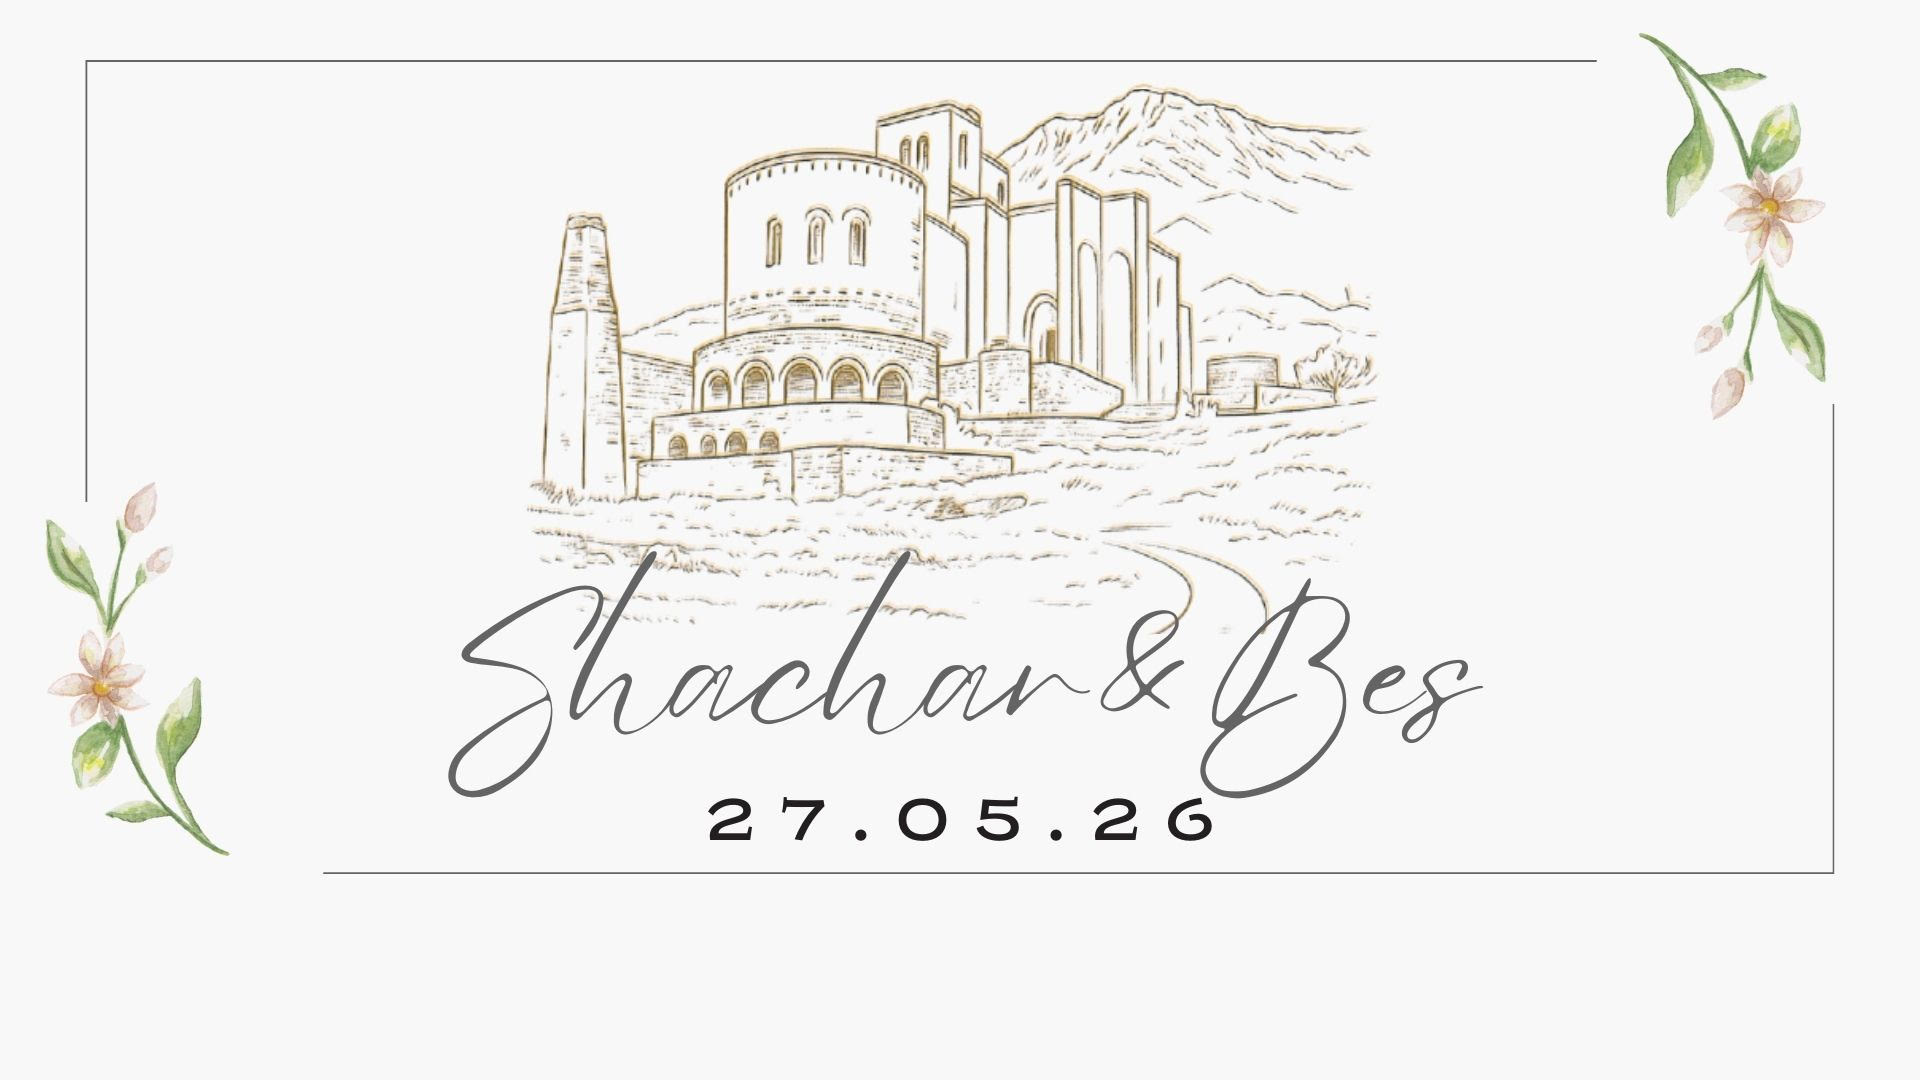
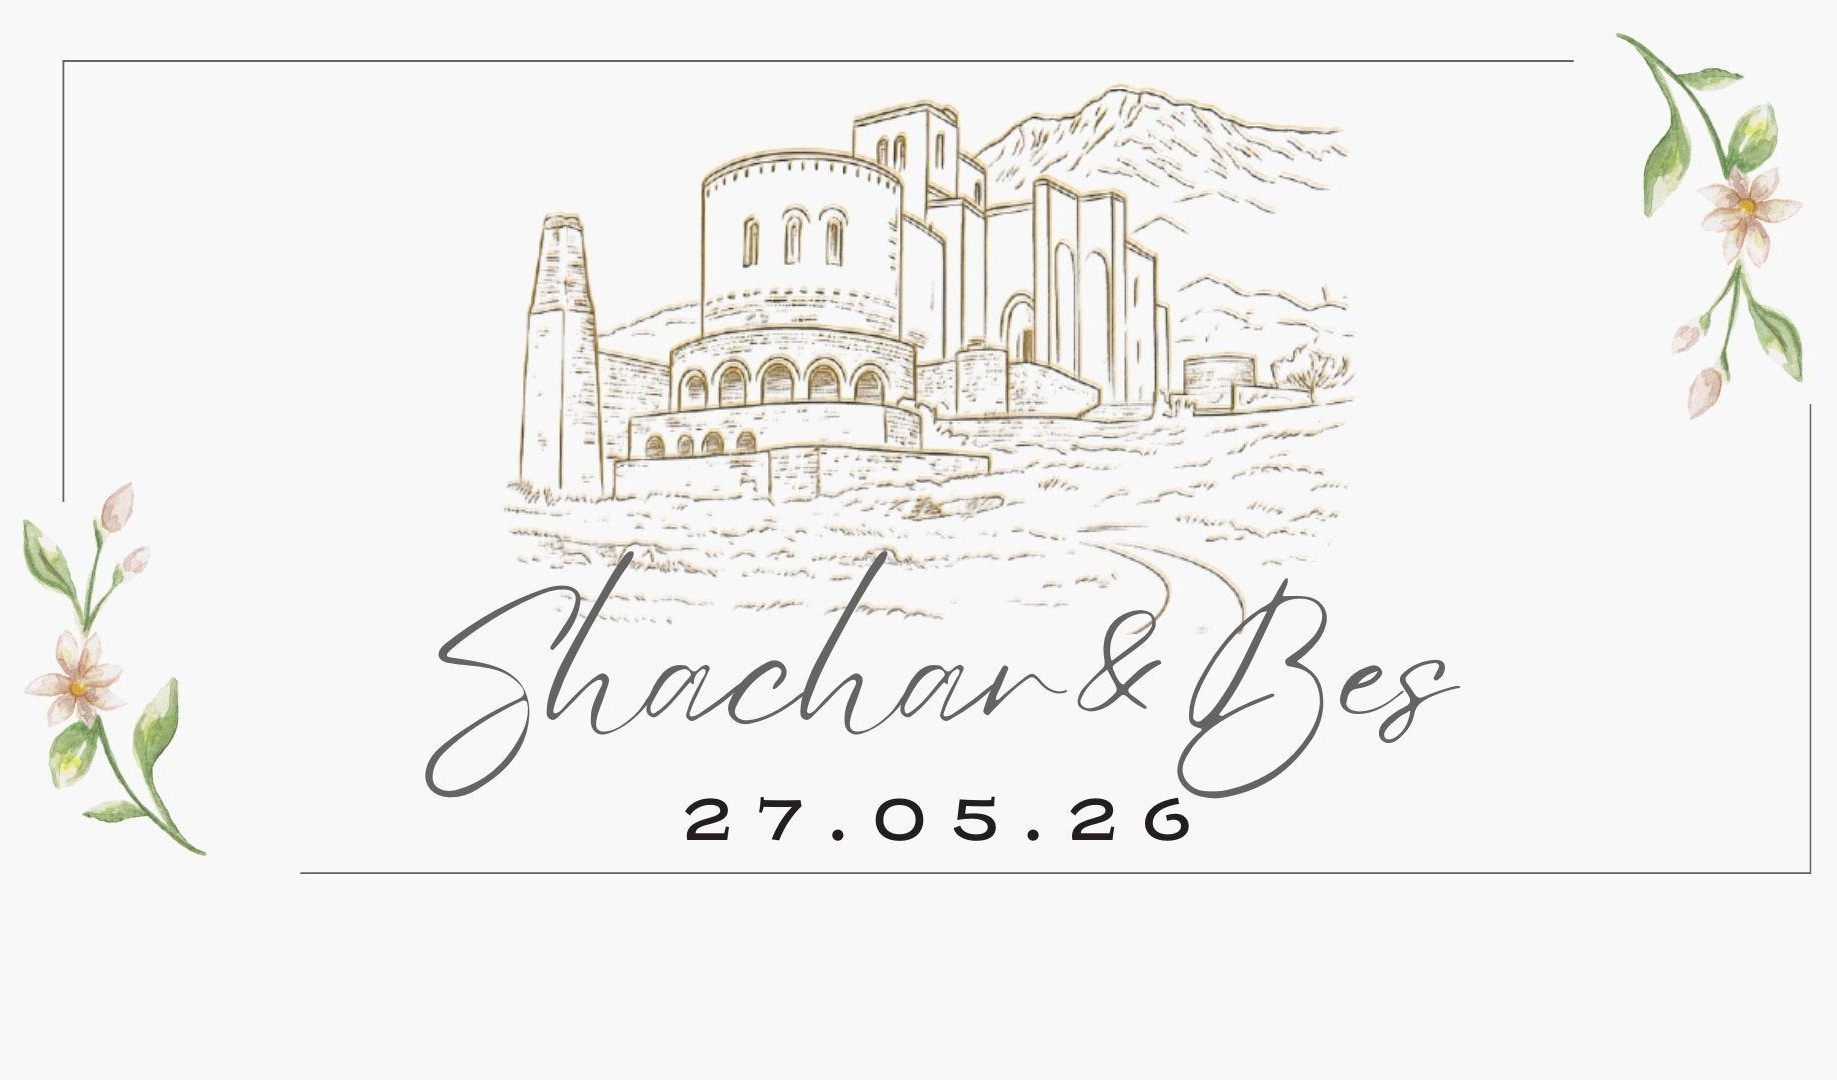
fixed dimensions

diff --git a/index.html b/index.html
@@ -4,7 +4,7 @@
     <meta charset="UTF-8">
     <meta name="viewport" content="width=device-width, initial-scale=1.0">
     <title>Shachar & Bes</title>
-    <link href="https://fonts.googleapis.com/css2?family=The+Seasons&family=Kedem:wght@400;700&family=Dancing+Script:wght@400;600;700&family=Varela+Round&display=swap" rel="stylesheet">
+    <link href="https://fonts.googleapis.com/css2?family=Alef:wght@400;700&family=The+Seasons&family=Kedem:wght@400;700&family=Dancing+Script:wght@400;600;700&family=Varela+Round&display=swap" rel="stylesheet">
     <style>
         * {
             margin: 0;
@@ -30,7 +30,8 @@
 
         body[dir="rtl"], html[dir="rtl"] {
             direction: rtl;
-            font-family: 'Varela Round', 'Kedem', Helvetica, sans-serif !important;
+            /* Use Alef as the primary Hebrew font (falls back to Kedem/Varela) */
+            font-family: 'Alef', 'Kedem', 'Varela Round', Helvetica, sans-serif !important;
         }
 
         body[dir="rtl"] .section,
@@ -52,6 +53,27 @@
             position: relative;
         }
 
+        /* Make header image full-bleed and responsive. Use object-fit to crop nicely. */
+        .header-cover {
+            display: block;
+            /* fill available width but never grow beyond original/max pixel width */
+            width: 100%;
+            max-width: 1400px; /* cap growth to avoid over-stretch on very large screens */
+            height: auto; /* let height adjust to maintain aspect ratio */
+            object-fit: contain; /* preserve aspect ratio without cropping */
+            object-position: center center;
+            margin: 0 auto; /* center when viewport is larger than image max-width */
+        }
+
+        @media (max-width: 1024px) {
+            .header-cover { height: auto; }
+        }
+        @media (max-width: 768px) {
+            .header-cover { height: auto; }
+        }
+        @media (max-width: 420px) {
+            .header-cover { height: auto; }
+        }
         .header::before {
             content: none;
         }
@@ -157,6 +179,53 @@
             margin: 0 auto;
         }
 
+        /* Make countdown cards more compact on narrow screens so they sit side-by-side */
+        @media (max-width: 600px) {
+            .countdown-container {
+                /* Force up to 3 columns even on small screens, with small min width */
+                grid-template-columns: repeat(3, minmax(60px, 1fr));
+                gap: 10px;
+                max-width: 100%;
+                padding: 0 8px;
+                box-sizing: border-box;
+            }
+
+            .countdown-card {
+                padding: 8px 6px;
+                border-radius: 10px;
+                box-shadow: 0 6px 14px rgba(0,0,0,0.06);
+            }
+
+            .countdown-number {
+                font-size: 1rem;
+            }
+
+            .countdown-label {
+                font-size: 0.65rem;
+                letter-spacing: 0.8px;
+            }
+        }
+
+        /* Extra small phones: tighten spacing a bit more */
+        @media (max-width: 380px) {
+            .countdown-container {
+                grid-template-columns: repeat(3, minmax(48px, 1fr));
+                gap: 6px;
+            }
+
+            .countdown-card {
+                padding: 6px 4px;
+            }
+
+            .countdown-number {
+                font-size: 0.95rem;
+            }
+
+            .countdown-label {
+                font-size: 0.6rem;
+            }
+        }
+
         .countdown-card:hover {
             transform: translateY(-10px);
             box-shadow: 0 20px 40px rgba(0, 0, 0, 0.15);
@@ -250,6 +319,16 @@
             position: relative;
         }
 
+        /* Use Alef for titles when in RTL (Hebrew) mode for a nicer look */
+        body[dir="rtl"] .main-title,
+        html[dir="rtl"] .main-title,
+        body[dir="rtl"] .section-title,
+        html[dir="rtl"] .section-title,
+        body[dir="rtl"] .detail-card h3,
+        html[dir="rtl"] .detail-card h3 {
+            font-family: 'Alef', 'Kedem', 'Varela Round', Helvetica, sans-serif !important;
+        }
+
         .section-title::after {
             content: '';
             position: absolute;
@@ -264,25 +343,26 @@
 
         .timer-container {
             display: grid;
-            grid-template-columns: repeat(auto-fit, minmax(120px, 1fr));
-            gap: 30px;
-            max-width: 600px;
+            /* allow narrower cards so they sit closer together */
+            grid-template-columns: repeat(auto-fit, minmax(90px, 1fr));
+            gap: 12px;
+            max-width: 520px;
             margin: 0 auto;
         }
 
         .timer-card {
             background: var(--white);
-            padding: 30px 20px;
-            border-radius: 20px;
+            padding: 16px 12px; /* tighter padding */
+            border-radius: 16px;
             text-align: center;
-            box-shadow: 0 10px 30px rgba(0, 0, 0, 0.1);
-            transition: transform 0.3s ease;
-            border: 3px solid transparent;
+            box-shadow: 0 8px 20px rgba(0, 0, 0, 0.08);
+            transition: transform 0.2s ease;
+            border: 2px solid transparent;
             background-clip: padding-box;
         }
 
         .timer-card:hover {
-            transform: translateY(-5px);
+            transform: translateY(-4px);
         }
 
         .timer-card:nth-child(1) { border-color: var(--pink); }
@@ -292,19 +372,32 @@
 
         .timer-number {
             font-family: 'Kedem', serif;
-            font-size: 2.5rem;
+            font-size: 1.8rem; /* slightly smaller so it fits tighter */
             font-weight: 700;
             color: var(--pink);
             display: block;
-            margin-bottom: 10px;
+            margin-bottom: 6px;
         }
 
         .timer-label {
-            font-size: 1rem;
+            font-size: 0.85rem;
             color: var(--gray);
             font-weight: 600;
             text-transform: uppercase;
-            letter-spacing: 1px;
+            letter-spacing: 0.8px;
+        }
+
+        /* On very small screens make them even tighter */
+        @media (max-width: 420px) {
+            .timer-container {
+                grid-template-columns: repeat(4, minmax(56px, 1fr));
+                gap: 8px;
+                max-width: 100%;
+                padding: 0 6px;
+            }
+            .timer-card { padding: 10px 8px; border-radius: 12px; }
+            .timer-number { font-size: 1.2rem; }
+            .timer-label { font-size: 0.7rem; }
         }
 
         .journey-text {
@@ -616,7 +709,8 @@
 </head>
 <body>
     <header class="header">
-    <img src="./imgs/cover.jpg" alt="Cover" style="display:block;margin:0 auto;max-width:85%;height:auto;margin-bottom:-80px;" />
+        <!-- header-cover class will make this full-bleed and crop nicely -->
+        <img src="./imgs/cover.jpg" alt="Cover" class="header-cover" />
     </header>
 
     <section id="countdown" class="section">
